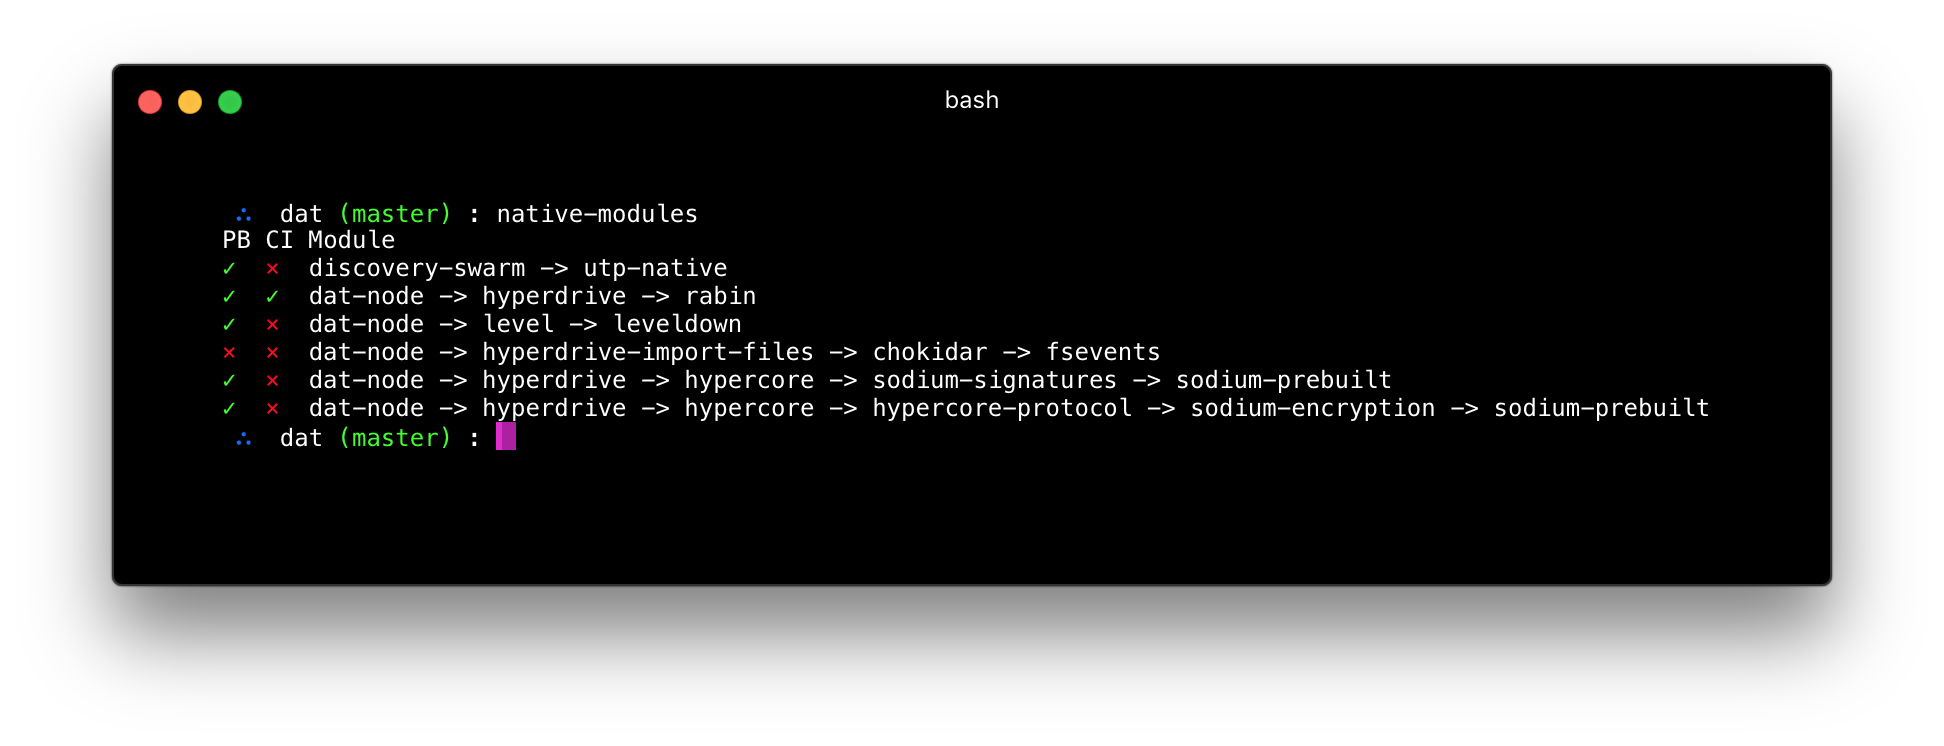
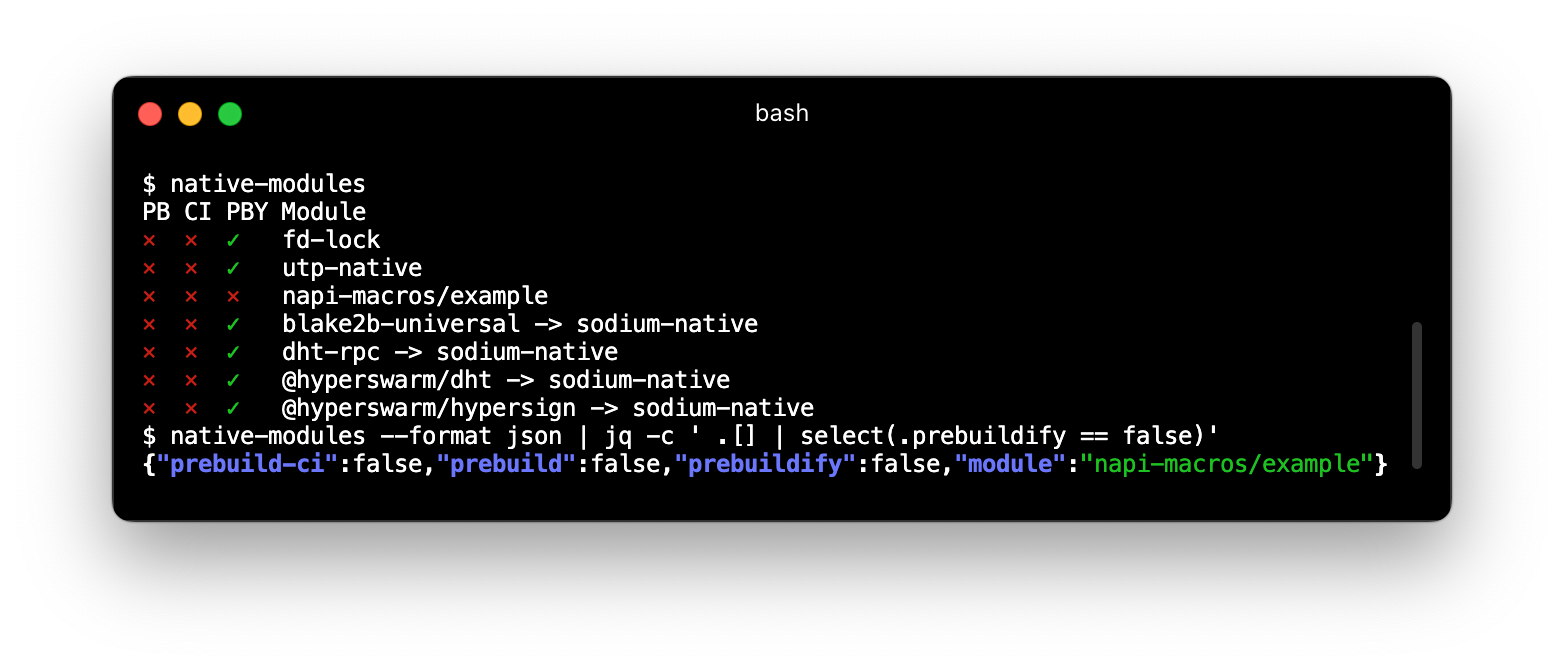
feat: Add prebuildify detection and json output (#15)
* feat: Add prebuildify detection and json output

* chore: Add MIT license

Changed region(s): [[0.0307, 0.0597, 0.9514, 0.8657]]

diff --git a/index.js b/index.js
@@ -5,8 +5,26 @@ import isNative from 'is-native-module'
 import chalk from 'chalk'
 
 let isFirst = true
-
+const items = []
 const check = truthy => (truthy ? chalk.green('✓') : chalk.red('×'))
+
+const FORMAT_PRETTY = 'pretty'
+const FORMAT_JSON = 'json'
+
+function hasArg (arg) {
+  return process.argv.includes(arg)
+}
+
+function getArgValue (arg) {
+  const index = process.argv.indexOf(arg)
+
+  if (index > -1) {
+    return process.argv[index + 1]
+  }
+  return undefined
+}
+
+const format = getArgValue('--format') || FORMAT_PRETTY
 
 const scan = dir =>
   Promise.all([
@@ -30,21 +48,46 @@ const scan = dir =>
         return
       }
       if (isNative(pkg)) {
-        if (isFirst) {
-          console.log('PB CI Module')
+        if (isFirst && format === FORMAT_PRETTY) {
+          console.log('PB CI PBY Module')
           isFirst = false
         }
         const path = dir
           .replace('node_modules/', '')
           .replace(/\/?node_modules\//g, ' -> ')
         const pb = pkg.dependencies && !!pkg.dependencies.prebuild
-        const ci = pkg.devDependencies && !!pkg.devDependencies['prebuild-ci']
-        console.log(`${check(pb)}  ${check(ci)}  ${path}`)
+        const pby = pkg.devDependencies && !!pkg.devDependencies.prebuildify
+        const pbc = pkg.devDependencies && !!pkg.devDependencies['prebuild-ci']
+
+        items.push({
+          'prebuild-ci': !!pbc,
+          prebuild: !!pb,
+          prebuildify: !!pby,
+          module: path
+        })
+
+        if (format === FORMAT_PRETTY) {
+          console.log(`${check(pb)}  ${check(pbc)}  ${check(pby)}   ${path}`)
+        }
       }
     })()
   ])
 
-scan('node_modules').catch(err => {
-  console.error(err)
-  process.exit(1)
-})
+if (hasArg('-h') || hasArg('--help')) {
+  const help = [
+    'Usage: native-modules [options]',
+    '  --format <string>               The formatting style for command output',
+    `                                  (formats: ${FORMAT_PRETTY}|${FORMAT_JSON} default: ${FORMAT_PRETTY})`,
+    '  -h, --help                      Print command line options'
+  ]
+  console.log(help.join('\n'))
+} else {
+  scan('node_modules').then(result => {
+    if (format === FORMAT_JSON) {
+      console.log(JSON.stringify(items))
+    }
+  }).catch(err => {
+    console.error(err)
+    process.exit(1)
+  })
+}

diff --git a/LICENSE.md b/LICENSE.md
@@ -1,0 +1,22 @@
+Copyright (c) 2022 Julian Gruber
+
+Permission is hereby granted, free of charge, to any person
+obtaining a copy of this software and associated documentation
+files (the "Software"), to deal in the Software without
+restriction, including without limitation the rights to use,
+copy, modify, merge, publish, distribute, sublicense, and/or sell
+copies of the Software, and to permit persons to whom the
+Software is furnished to do so, subject to the following
+conditions:
+
+The above copyright notice and this permission notice shall be
+included in all copies or substantial portions of the Software.
+
+THE SOFTWARE IS PROVIDED "AS IS", WITHOUT WARRANTY OF ANY KIND,
+EXPRESS OR IMPLIED, INCLUDING BUT NOT LIMITED TO THE WARRANTIES
+OF MERCHANTABILITY, FITNESS FOR A PARTICULAR PURPOSE AND
+NONINFRINGEMENT. IN NO EVENT SHALL THE AUTHORS OR COPYRIGHT
+HOLDERS BE LIABLE FOR ANY CLAIM, DAMAGES OR OTHER LIABILITY,
+WHETHER IN AN ACTION OF CONTRACT, TORT OR OTHERWISE, ARISING
+FROM, OUT OF OR IN CONNECTION WITH THE SOFTWARE OR THE USE OR
+OTHER DEALINGS IN THE SOFTWARE.

diff --git a/README.md b/README.md
@@ -2,14 +2,18 @@
 
 Report on the native node modules used by your application or module.
 
-Checks for presence of [prebuild](https://npmjs.org/package/prebuild) and [prebuild-ci](https://npmjs.org/package/prebuild-ci).
+Checks for presence of [prebuild](https://npmjs.org/package/prebuild), [prebuild-ci](https://npmjs.org/package/prebuild-ci), and [prebuildify](https://github.com/prebuild/prebuildify).
 
 ![screenshot](screenshot.png)
 
 ## Usage
 
-```bash
- $ native-modules
+```text
+ $ native-modules --help
+ Usage: native-modules [options]
+   --format <string>        The formatting style for command output
+                            (formats: pretty|json default: pretty)
+   -h, --help               Print command line options
 ```
 
 ## Installation
